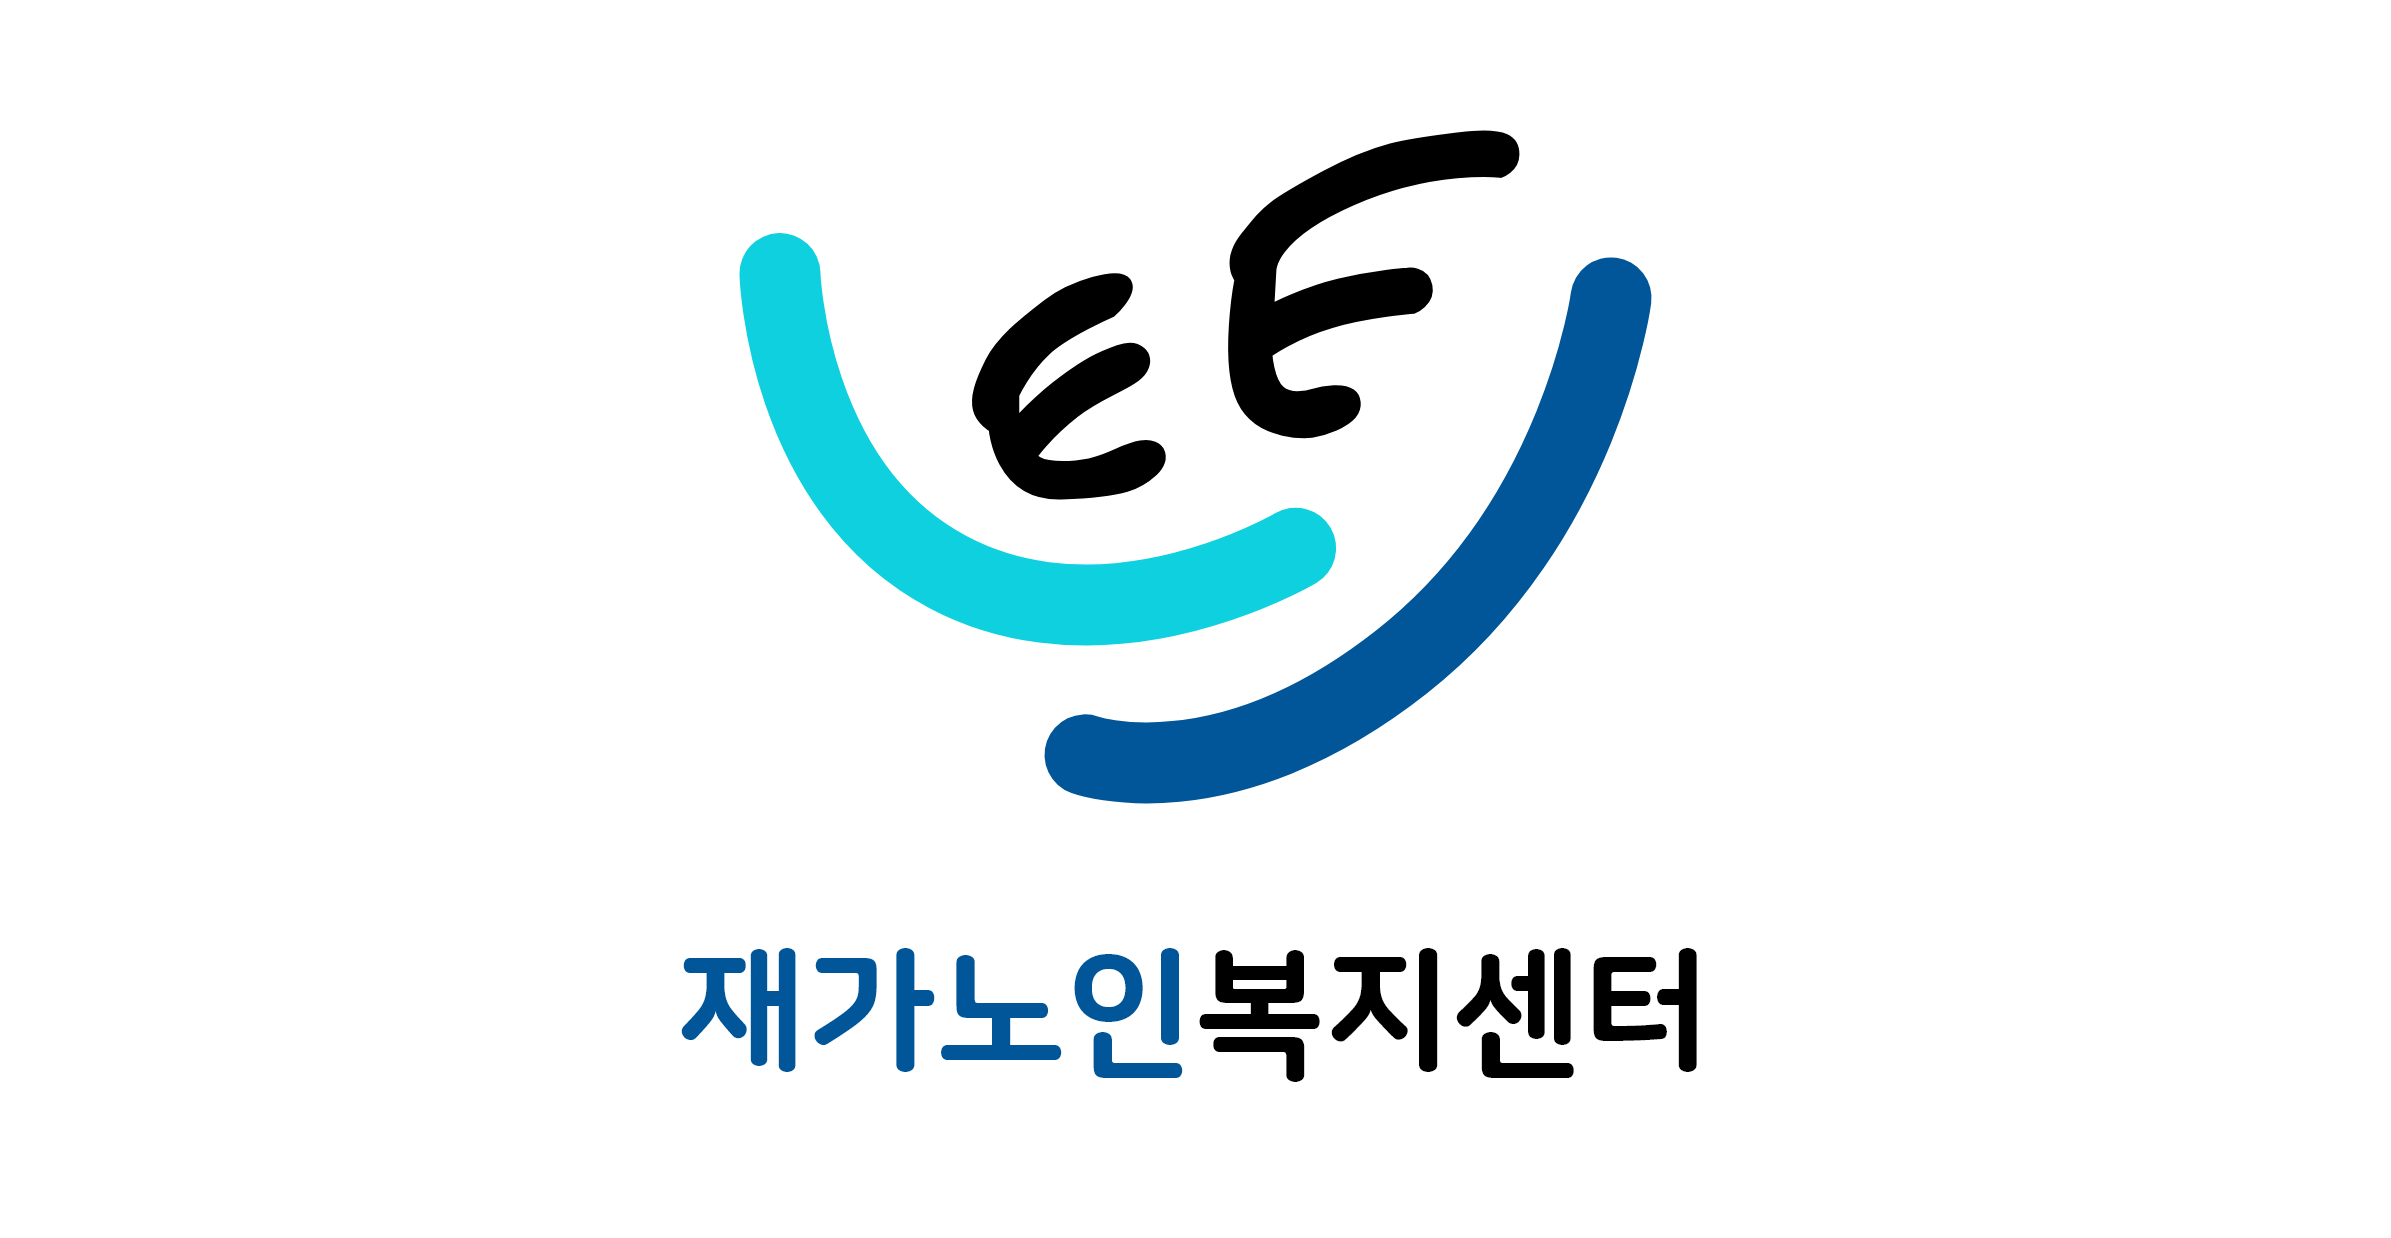
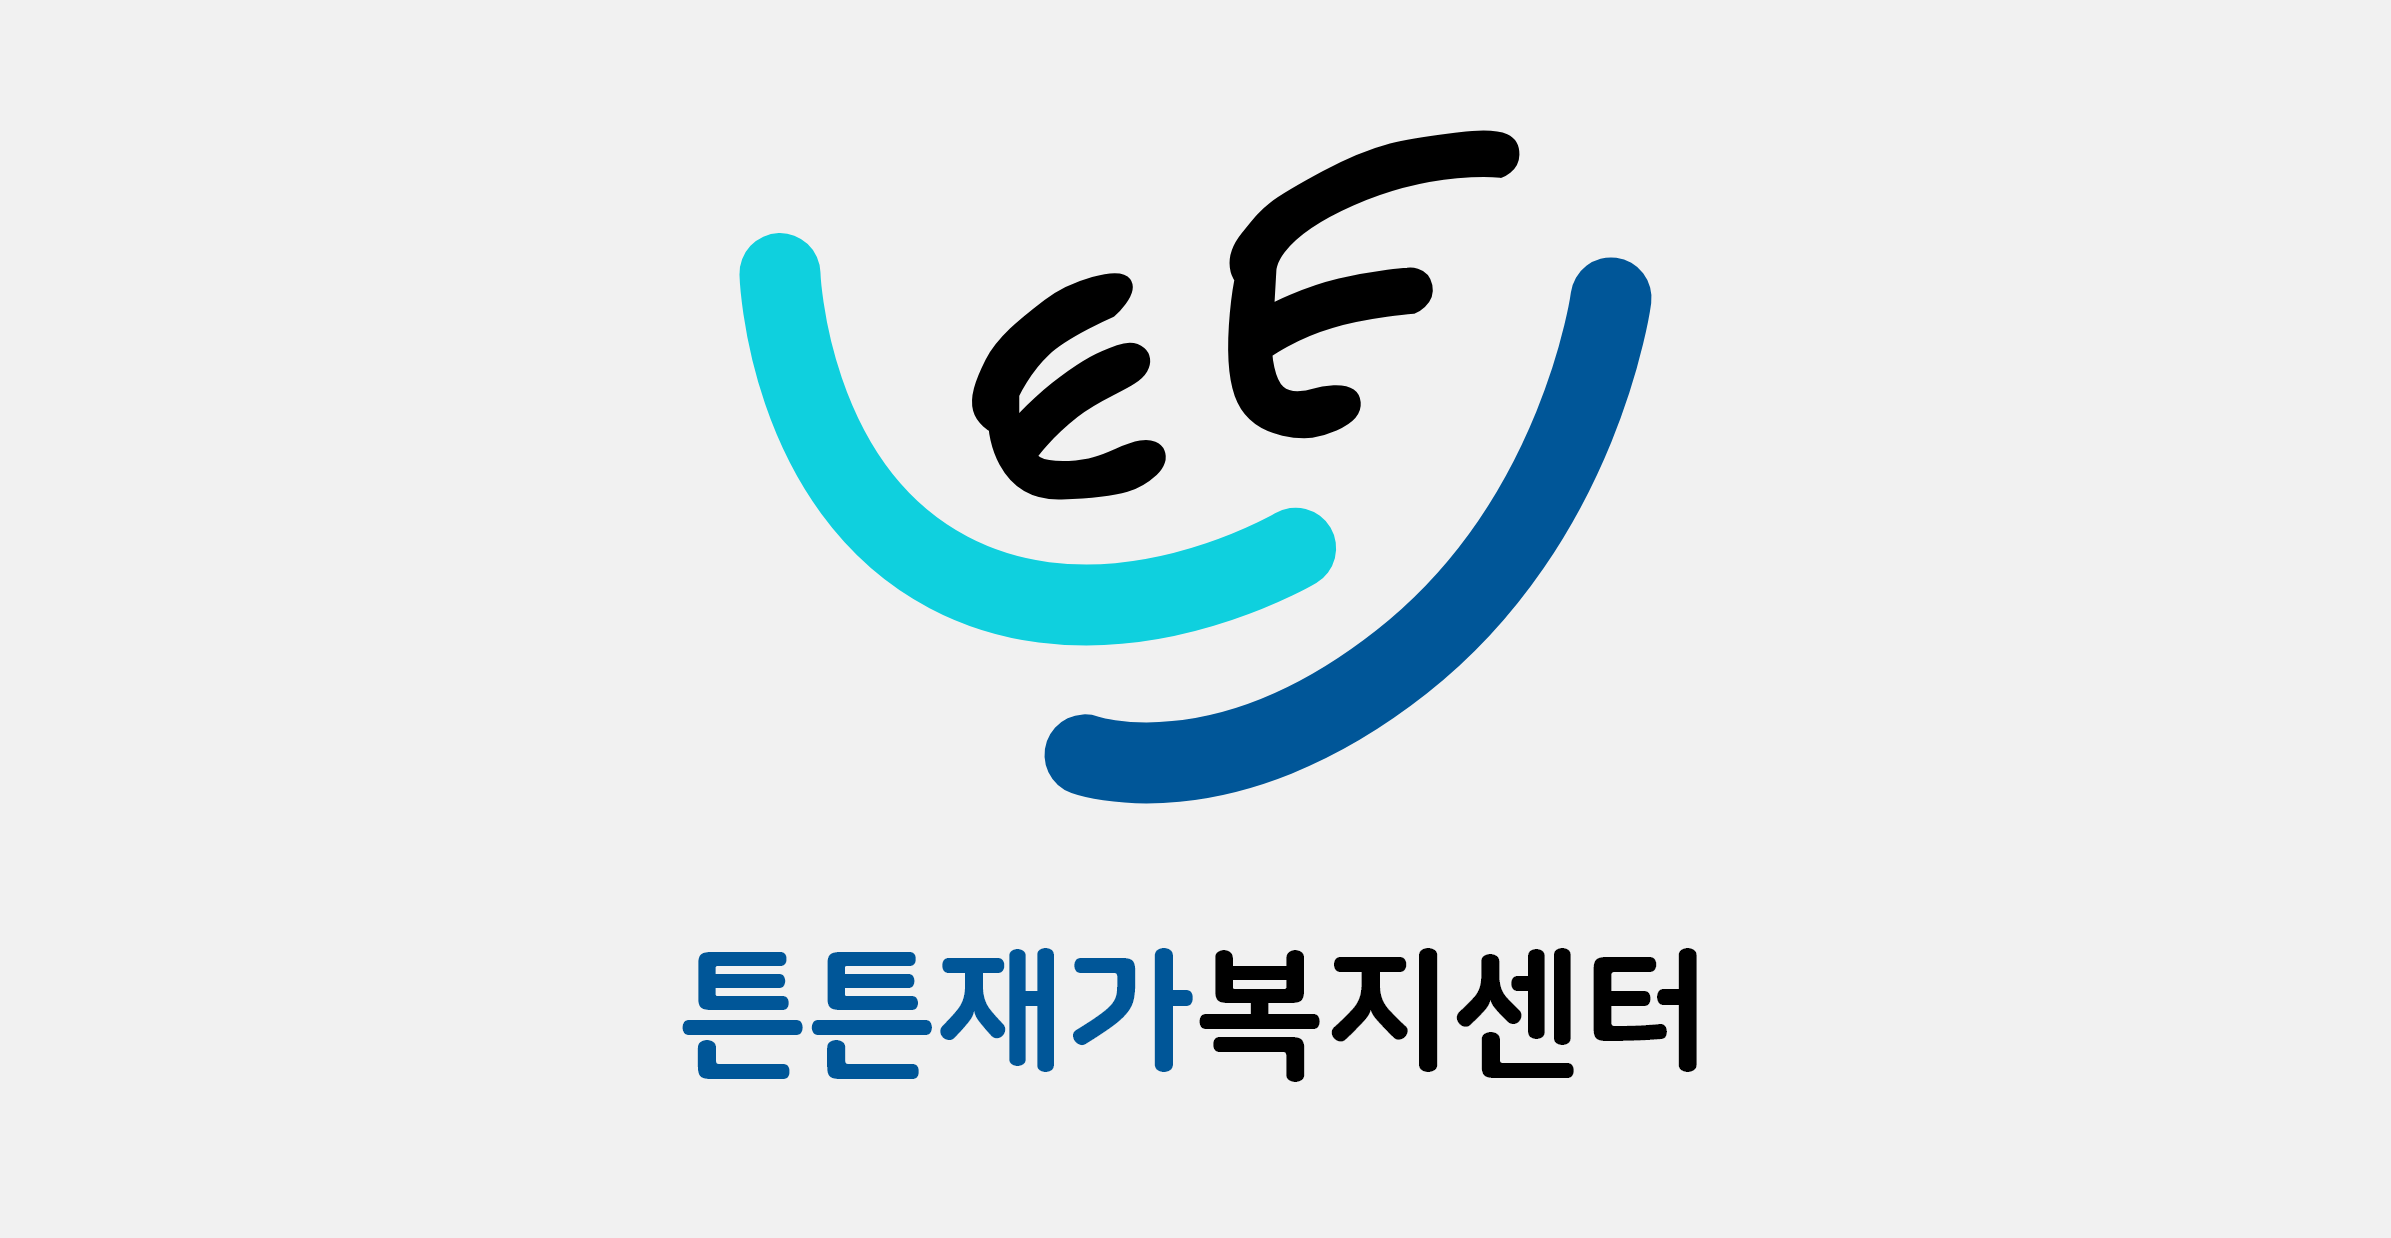
fix name

Changed region(s): [[0.2785, 0.7674, 0.4952, 0.8901]]

diff --git a/index.html b/index.html
@@ -10,7 +10,7 @@
 
 	<!-- kakaotalk -->
 	<meta name="viewport" content="width=device-width, initial-scale=1.0">
-	<meta property="og:title" content="튼튼재가노인복지센터">
+	<meta property="og:title" content="튼튼재가복지센터">
 	<meta property="og:image" content="static/img/kakaotalk_img.png">
 	<meta property="og:description" content="설명부분">
 	<meta property="og:type" content="website">
@@ -18,7 +18,7 @@
 	<!--favicon-->
 	<link rel="icon" href="static/img/logo.png" type="image/x-icon">
 
-	<title>튼튼재가노인복지센터</title>
+	<title>튼튼재가복지센터</title>
 </head>
 
 <body>
